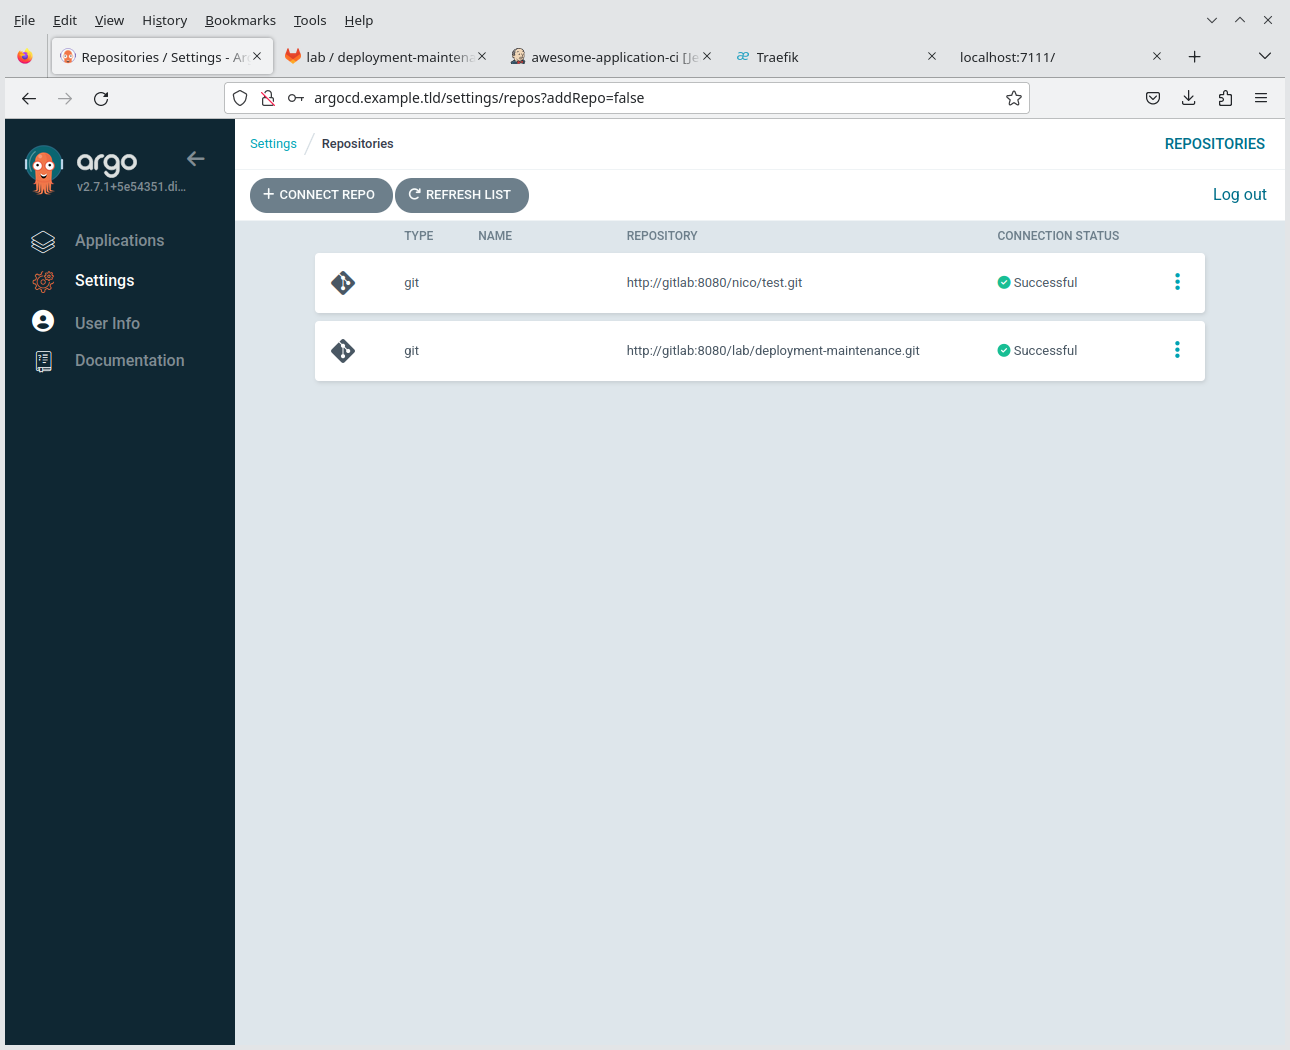
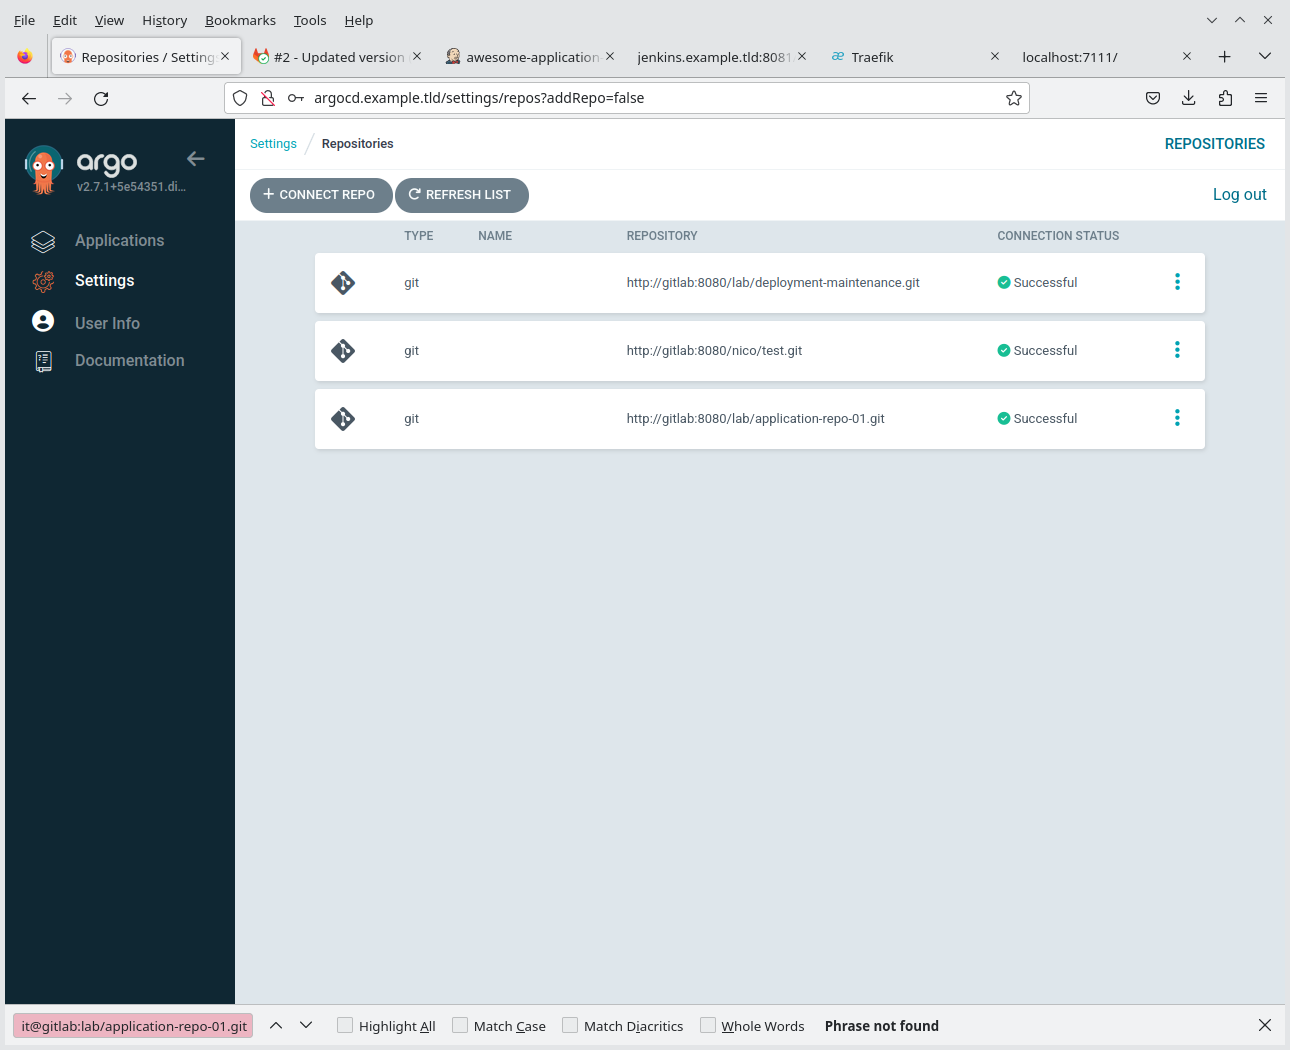
doc: documented tasks

diff --git a/task_06_setup_jenkins_build_for_test_application.md b/task_06_setup_jenkins_build_for_test_application.md
@@ -74,6 +74,9 @@ In ArgoCD, add the repository clone url together with the appropriate credential
 
 ![ArgoCD to Gitlab Repository Configuration](screenshots/argocd_gitlab_integration_setup.png)
 
+> **Note**
+> Follow the same steps to also add the repository `application-repo-01/`
+
 After the repository is successfully connected, the following screen should greet you:
 
 ![ArgoCD to Gitlab Integration Success](screenshots/argocd_gitlab_integration_done.png)
